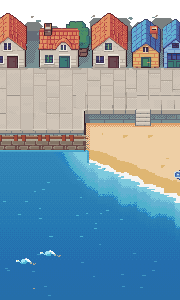
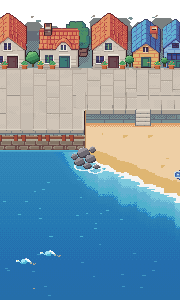
항구 도시 합친 판: 축대·해변 모서리 직선 잘림선을 바위 무더기·물거품으로 덮음, 집 사이 나무 3그루·작은 화분 8개 (경완 '여전히 이 부분 직선 잘림선 어색. 그리고 건물 사이사이 여백에 작은 화분이랑, 일반 나무들 놔서 좀 꾸며줘봐') + CLAUDE.md 10절 잘림선 반복 지적
Claude-Session: https://claude.ai/code/session_012Z4iFifcZH9cfXSxsF9mWo

diff --git a/assets_src/maps/mix/deco.py b/assets_src/maps/mix/deco.py
@@ -1,0 +1,62 @@
+# 항구 도시 합친 판: 축대·해변 모서리 직선 잘림선을 바위 무더기로 정리 + 집 사이 나무·작은 화분
+# (경완 '여전히 이 부분 직선 잘림선 어색. 그리고 건물 사이사이 여백에 작은 화분이랑, 일반 나무들 놔서 좀 꾸며줘봐')
+import sys, math
+from PIL import Image
+im=Image.open(sys.argv[1]).convert('RGBA'); p=im.load(); s=im.copy().load()
+hx=lambda c:tuple(int(c[i:i+2],16) for i in (0,2,4))+(255,)
+def px(x,y,c):
+  if 0<=x<180 and 0<=y<300: p[x,y]=hx(c) if isinstance(c,str) else c
+# 1) 모서리 체크 무늬·세로 줄 → 모래로 (x 85~89, y 110~165), 벽 옆 그늘 1줄
+for y in range(110,170):
+  for x in range(85,90):
+    c=s[x,y]
+    if y<150 or not (c[2]>c[0]+40):
+      p[x,y]=s[93,y] if not (s[93,y][2]>s[93,y][0]+40) else s[x,y]
+  if y<150: px(85,y,'b98a5e')
+# 2) 바위 무더기 (모서리에서 바다 쪽으로)
+ROCK=[('4a4650','6e6a72','98949a','c4c0c4')]
+def rock(cx,cy,rx,ry):
+  d,m,l,h=ROCK[0]
+  for y in range(-ry-1,ry+2):
+    for x in range(-rx-1,rx+2):
+      e=(x/rx)**2+(y/ry)**2
+      if e<=1.0:
+        t=(x*.5+y)/(rx+ry)   # 왼쪽 위가 밝음
+        c=h if t<-.45 else l if t<-.1 else m if t<.35 else d
+        px(cx+x,cy+y,c)
+      elif e<=1.35 and y>=0: px(cx+x,cy+y,'3a3640')    # 아래 테두리
+# 바위 아래 물거품 먼저
+for (cx,cy,r) in [(84,166,10),(95,170,7)]:
+  for a in range(0,360,6):
+    x=cx+math.cos(a/57.3)*r; y=cy+math.sin(a/57.3)*r*.45
+    if math.sin(a/57.3)>-.2 and s[int(x),int(y)][2]>s[int(x),int(y)][0]+40: px(int(x),int(y),'f4f6f6'); px(int(x)+1,int(y),'dff0f4')
+for (cx,cy,rx,ry) in [(83,152,6,5),(90,158,5,4),(79,161,5,4),(87,165,4,3),(96,166,3,2),(74,156,3,3),(92,149,3,3)]:
+  rock(cx,cy,rx,ry)
+# 3) 집 사이 나무 (둥근 잎, 테두리, 밑동)
+def tree(cx,base,r):
+  for y in range(base-3,base+1): px(cx,y,'6a4a30'); px(cx+1,y,'4e3622')
+  cy=base-3-r
+  for y in range(-r-1,r+2):
+    for x in range(-r-1,r+2):
+      e=(x*x+(y*1.1)**2)**.5/r
+      lump=math.sin(math.atan2(y,x)*5)*.08
+      if e<=1+lump:
+        t=(x*.4+y)/(r*1.4)
+        c='7cc27a' if t<-.45 else '5aa86a' if t<-.1 else '3f8a5a' if t<.35 else '2f6a46'
+        px(cx+x,cy+y,c)
+      elif e<=1.18+lump: px(cx+x,cy+y,'24402e')
+tree(32,66,6); tree(129,66,4); tree(164,66,3)
+# 4) 작은 화분 (테라코타 + 초록/꽃)
+def pot(cx,base,flower=None):
+  for y in range(base-3,base+1):
+    w=2 if y>base-3 else 3
+    for x in range(cx-w,cx+w+1): px(x,y,'c0683e' if x<cx+w else '8a4428')
+  for x in range(cx-3,cx+4): px(x,base-3,'d8845a')
+  for y in range(base-7,base-3):
+    for x in range(cx-3,cx+4):
+      if (x-cx)**2+((y-(base-5))*1.4)**2<=10: px(x,y,'5aa86a' if (x+y)%3 else '3f8a5a')
+  if flower:
+    for (fx,fy) in [(-1,-7),(2,-6),(-2,-5)]: px(cx+fx,base+fy,flower)
+for (x,f) in [(4,'f05a6a'),(24,None),(40,'f8d040'),(52,None),(104,'f05a6a'),(122,None),(157,'f8d040'),(171,'f05a6a')]:
+  pot(x,68,f)
+im.save(sys.argv[2])

diff --git a/CLAUDE.md b/CLAUDE.md
@@ -165,6 +165,7 @@
 ### 화면에서
 - **잘림·가림·겹침** (가장 많음 · 20번 넘게): 랭킹 박스에서 긴 이름 잘림(가라르 또도가스), 기술 박스·딱지 오른쪽 잘림, 큰 포켓몬이 프레임·체력 박스·상대 정보 박스에 잘리거나 가림(대짱이·리자몽), 기술 효과 아래 잘림선(아쿠아제트), 버튼이 대사창에 가림, 사람끼리 겹침(도전자·코치·연구원·강박사). 11-15~16 더: 새로 배울 기술 딱지 "또 잘림"(v21.69), 더블 배틀 뒷모습 아래 잘림선(이상해씨 v25.14)·얼굴 띠 NPC 아래 잘림, 체육관 관리 버튼 잘림, 더블 배틀 도전자 둘이 겹쳐 들어오고 나감(`goOut` 한 명씩 줄지어), 배틀 박스 두 개에 상대 포켓몬 가림.
   → 검사: **가장 큰 포켓몬·가장 긴 이름·가장 큰 기술 효과**로 띄워 본다. 사람·포켓몬이 여럿 나오면 서로 겹치지 않게 자리와 나가는 차례를 정한다.
+- **그림 이어 붙인 잘림선**: 새 필드 맵 항구 도시를 PixelLab 두 장(250·350)에서 합칠 때 바다 세로·계단 잘림선(경완 'pixellab 합친 판에서 바다 잘림선 어색한 부분들 정리') → 다시 축대·해변 모서리 직선(경완 '여전히 이 부분 직선 잘림선 어색'). → 그림을 합치거나 소품을 지우면 이음매를 확대(4배)해서 직선·체크 무늬·색 띠가 남았는지 모든 이음매를 본다. 바다는 물가 거리로 다시 칠하고(assets_src/maps/mix/sea.py), 모서리는 바위·풀숲 같은 자연 소품으로 덮는다(deco.py) — 2026-11-19
 - **CSS 이름 충돌**: 체육관 CSS(gym.css)는 한 번 들어가면 계속 남아 있어서, 거기 `#gym` 없이 쓴 흔한 이름이 필드 화면까지 바꿈 — 친구 필드 채팅 입력 줄 `.vc-in` 이 흰 상자·폭 290px 로 바뀌어 오른쪽 여백(경완 '또', v22.00·v22.06 에 이어 세 번째). → gym.css 새 규칙은 `#gym`·`.gy-` 접두나 부모 칸 이름을 꼭 앞에 붙이고, 본 게임 html 에 같은 클래스가 있는지 grep 한다. 확인은 체육관에 들어갔다 나온 뒤 화면으로 — 2026-11-16 v25.92
 - **앞뒤 판정**(소품 높이): 소품·덤불·그루터기 앞뒤가 꼬임, 가려진 바위에 기대기, 소품 뒤에 겹쳐 잠듦, 밤 후광 앞뒤(경완 '후광이 항상 문제네 앞뒤 판정 → 뿌리부터', v21.74). → 새 소품·자리마다 앞뒤 기준선을 확인 (7절).
 - **서식·이동 방식**: 물 포켓몬이 땅에 올라옴(가비루사·고래왕), 땅 포켓몬이 물 위를 걷거나 호수에서 잠(따라큐·렌트라), 안 뜨는 포켓몬이 떠 있음(대로트·두더류). → 새 동작·자리 정하기에 물·땅·뜸 조건을 넣는다.
